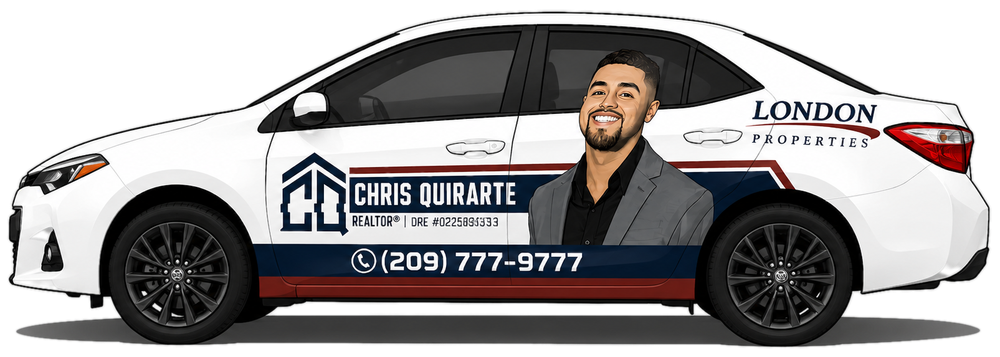
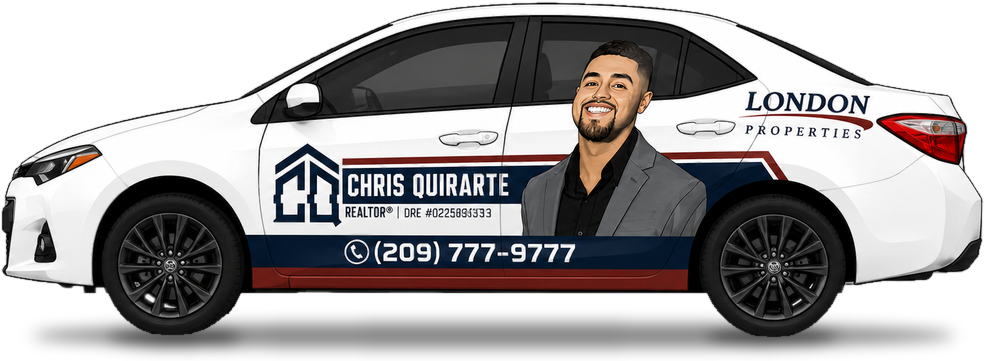
Clean up car image: remove grey ground slab, edge fringe, and bumper holes
Replaces the opaque grey shadow with a soft baked-in shadow and lines
the road up with the tires.

diff --git a/index.html b/index.html
@@ -210,9 +210,9 @@
   .car-band-grid{display:grid; grid-template-columns:0.8fr 1.2fr; gap:32px; align-items:center;}
   .car-band h2{font-size:clamp(32px,3.6vw,44px);}
   .car-band p{color:rgba(255,255,255,0.75); margin-top:12px;}
-  .car-road{position:relative; padding-bottom:14px;}
-  .car-road::after{content:""; position:absolute; left:-50vw; right:-50vw; bottom:0; height:2px; background:repeating-linear-gradient(90deg, rgba(255,255,255,0.3) 0 28px, transparent 28px 52px);}
-  .car-road img{width:100%; max-width:620px; margin-left:auto;}
+  .car-road{position:relative;}
+  .car-road::after{content:""; position:absolute; left:-50vw; right:-50vw; bottom:9px; height:2px; background:repeating-linear-gradient(90deg, rgba(255,255,255,0.3) 0 28px, transparent 28px 52px);}
+  .car-road img{width:100%; max-width:620px; margin-left:auto; position:relative; z-index:1;}
   .js .car-road img{transform:translateX(110vw);}
   .js .car-road.in img{transform:translateX(0); transition:transform 2.2s cubic-bezier(.16,.84,.3,1);}
   @media (max-width:860px){.car-band-grid{grid-template-columns:1fr;}}
@@ -457,7 +457,7 @@
       <p>Spot the car around town? Wave, or give me a call.</p>
     </div>
     <div class="car-road">
-      <img src="car-drive.png" alt="Chris Quirarte's car wrapped with his London Properties branding" width="1000" height="357" loading="lazy">
+      <img src="car-drive.png" alt="Chris Quirarte's car wrapped with his London Properties branding" width="985" height="361" loading="lazy">
     </div>
   </div>
 </section>
